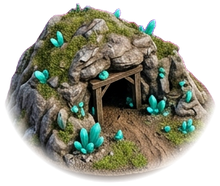
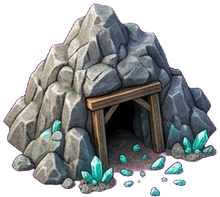
Island Colony 0.7: terrain-free models with soft ground blending
Town and resource models no longer carry their own ground or coast.
Soft irregular ground decals blend them into the island, the harbour
sits at the real coastline with a pier, fishing sites get piers, and
town levels cross-fade.

Claude-Session: https://claude.ai/code/session_01E4scMGCpZdQCxrR1QxGp5n

diff --git a/o-kolonin/docs/02_speldesign.md b/o-kolonin/docs/02_speldesign.md
@@ -88,3 +88,11 @@ Pearl Bay, Ghost Skerry, Shark's Tooth och Sunstone Isle. Havet heter the Emeral
 | Stadsbyggnader | Skeppsvarv, marknad, akademi, lagerhus, batterier, destilleri, glasbruk och fyr finns "i staden" och byggs via stadspanelen (Build-fliken), som byggnadskedjor i Total War |
 | Resursplatser | Små miniatyrer runt ön (som Total Wars mindre bosättningar): skogsläger, palmplantage, fiskeläge, stenbrott, sandtag, sockerplantage med väderkvarn, kryddgård, pärldykare, kristallgruva, guldgruva. Klicka för att bygga och uppgradera |
 | Mindre detaljer | Inga gående invånare, inga hus, få palmer, diskreta vägar mellan staden och resursplatserna |
+
+## Övergångar mellan modeller och ö (version 0.7)
+- Alla stads- och resursmodeller är rena byggnader utan egen mark, vatten eller kust.
+- Spelet ritar en mjuk markyta under varje stad och resursplats: oregelbunden kant som tonar ut i gräset.
+  Stadens yta växer med nivån och blir stenlagd från nivå Town.
+- Hamnen (hamnmagasin) placeras vid den riktiga kusten med en brygga ut i vattnet, och en väg till staden.
+  Fiskelägen och pärldykare får egna bryggor. Båtar guppar vid bryggorna.
+- När staden växer tonas den gamla modellen över i den nya, med byggställning och damm under uppgraderingen.

diff --git a/o-kolonin/docs/03_logg.md b/o-kolonin/docs/03_logg.md
@@ -89,3 +89,9 @@ Behövs inte för spelet. Allt görs lokalt i Godot.
 - Tog bort husen, torgen, tornen, de separata stadsbyggnaderna, gående invånare och de flesta palmerna.
 - Ny skylt över varje stad med flagga, namn, nivåstjärnor, garnison och uppgraderingsmätare.
 - Testat: inga fel i 1400 speldagar.
+
+## 24 november – pilot 0.7: mjuka övergångar
+- Ny grafik i Runway (8 krediter, 59 kvar): stadsmodeller och resursbyggnader helt utan mark.
+- Mjuka markytor under städer och resursplatser, hamn med brygga vid kusten, bryggor vid fiskelägen,
+  överton mellan stadsnivåer.
+- Testat: inga fel i 1400 speldagar.

diff --git a/o-kolonin/docs/01_dina_meddelanden.md b/o-kolonin/docs/01_dina_meddelanden.md
@@ -66,3 +66,6 @@
 > Ser inte bra ut alls. Ta inspiration från total war empire för hur en ö eller province ska se ut
 > Inte så mycket detaljer. Staden kan vara en animation. Du behöver inga separat byggnader
 > Mycket lättare och snyggare att fixa
+
+## 11. Övergångar
+> Ser konstigt ut när modellerna har terräng inklipp i sig. Det ser ut som du bara kastat på moddellerna på kartan. Du måste se till att det är en snygg övergång från staden och omgivningen. Inte som att man klipp och klistrat. Modellerna måste vara mer dynamiska. Och att staden har en kust fucker upp om staden sitter inåt land

diff --git a/o-kolonin/README.md b/o-kolonin/README.md
@@ -1,4 +1,4 @@
-# Island Colony – pilot 0.6
+# Island Colony – pilot 0.7
 
 A colony-building and naval strategy game in a Caribbean archipelago, made with Godot 4.7.
 (Swedish: spelets text är på engelska. Dokumenten i `docs/` är på svenska.)
